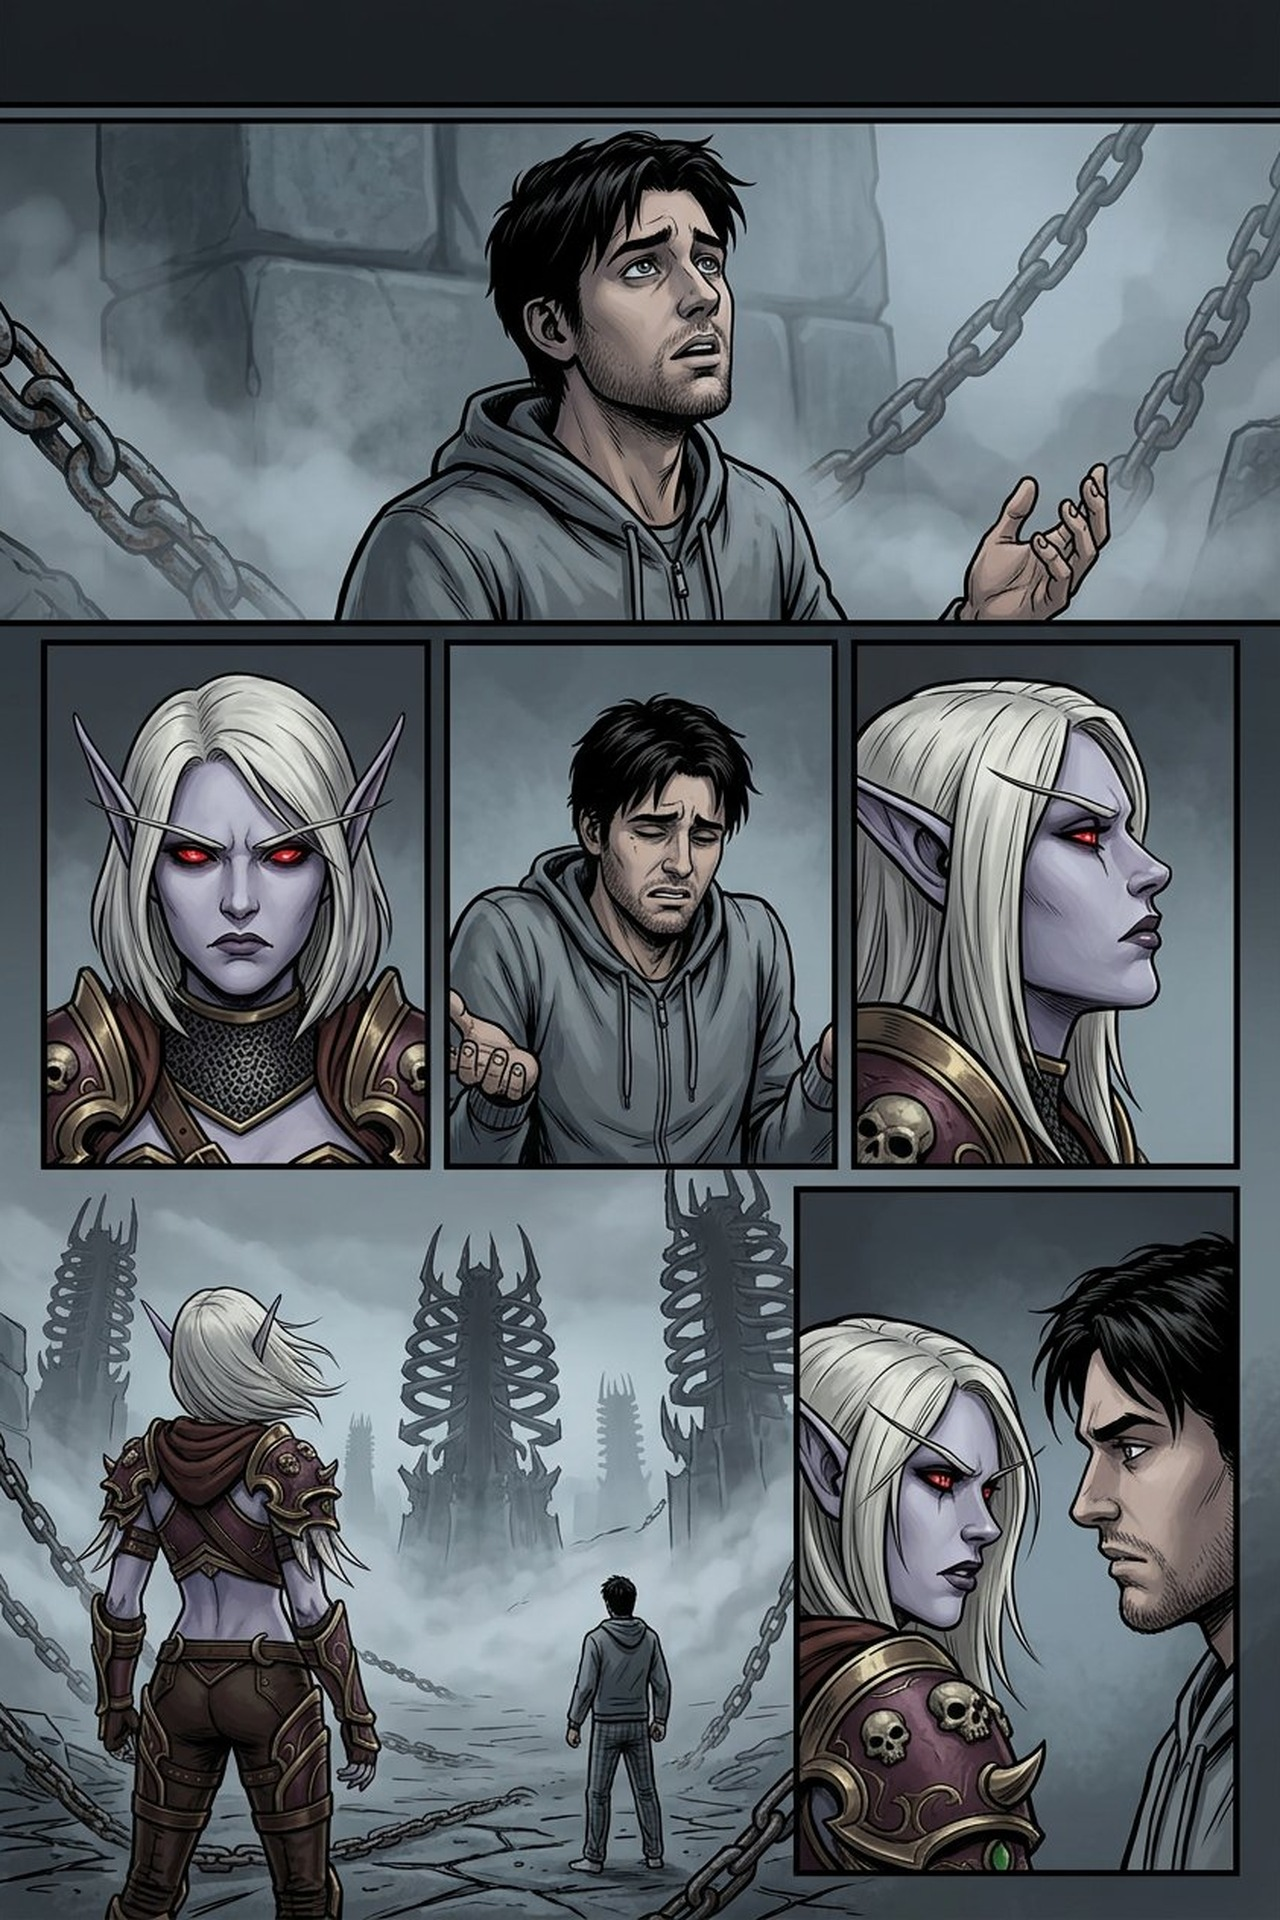
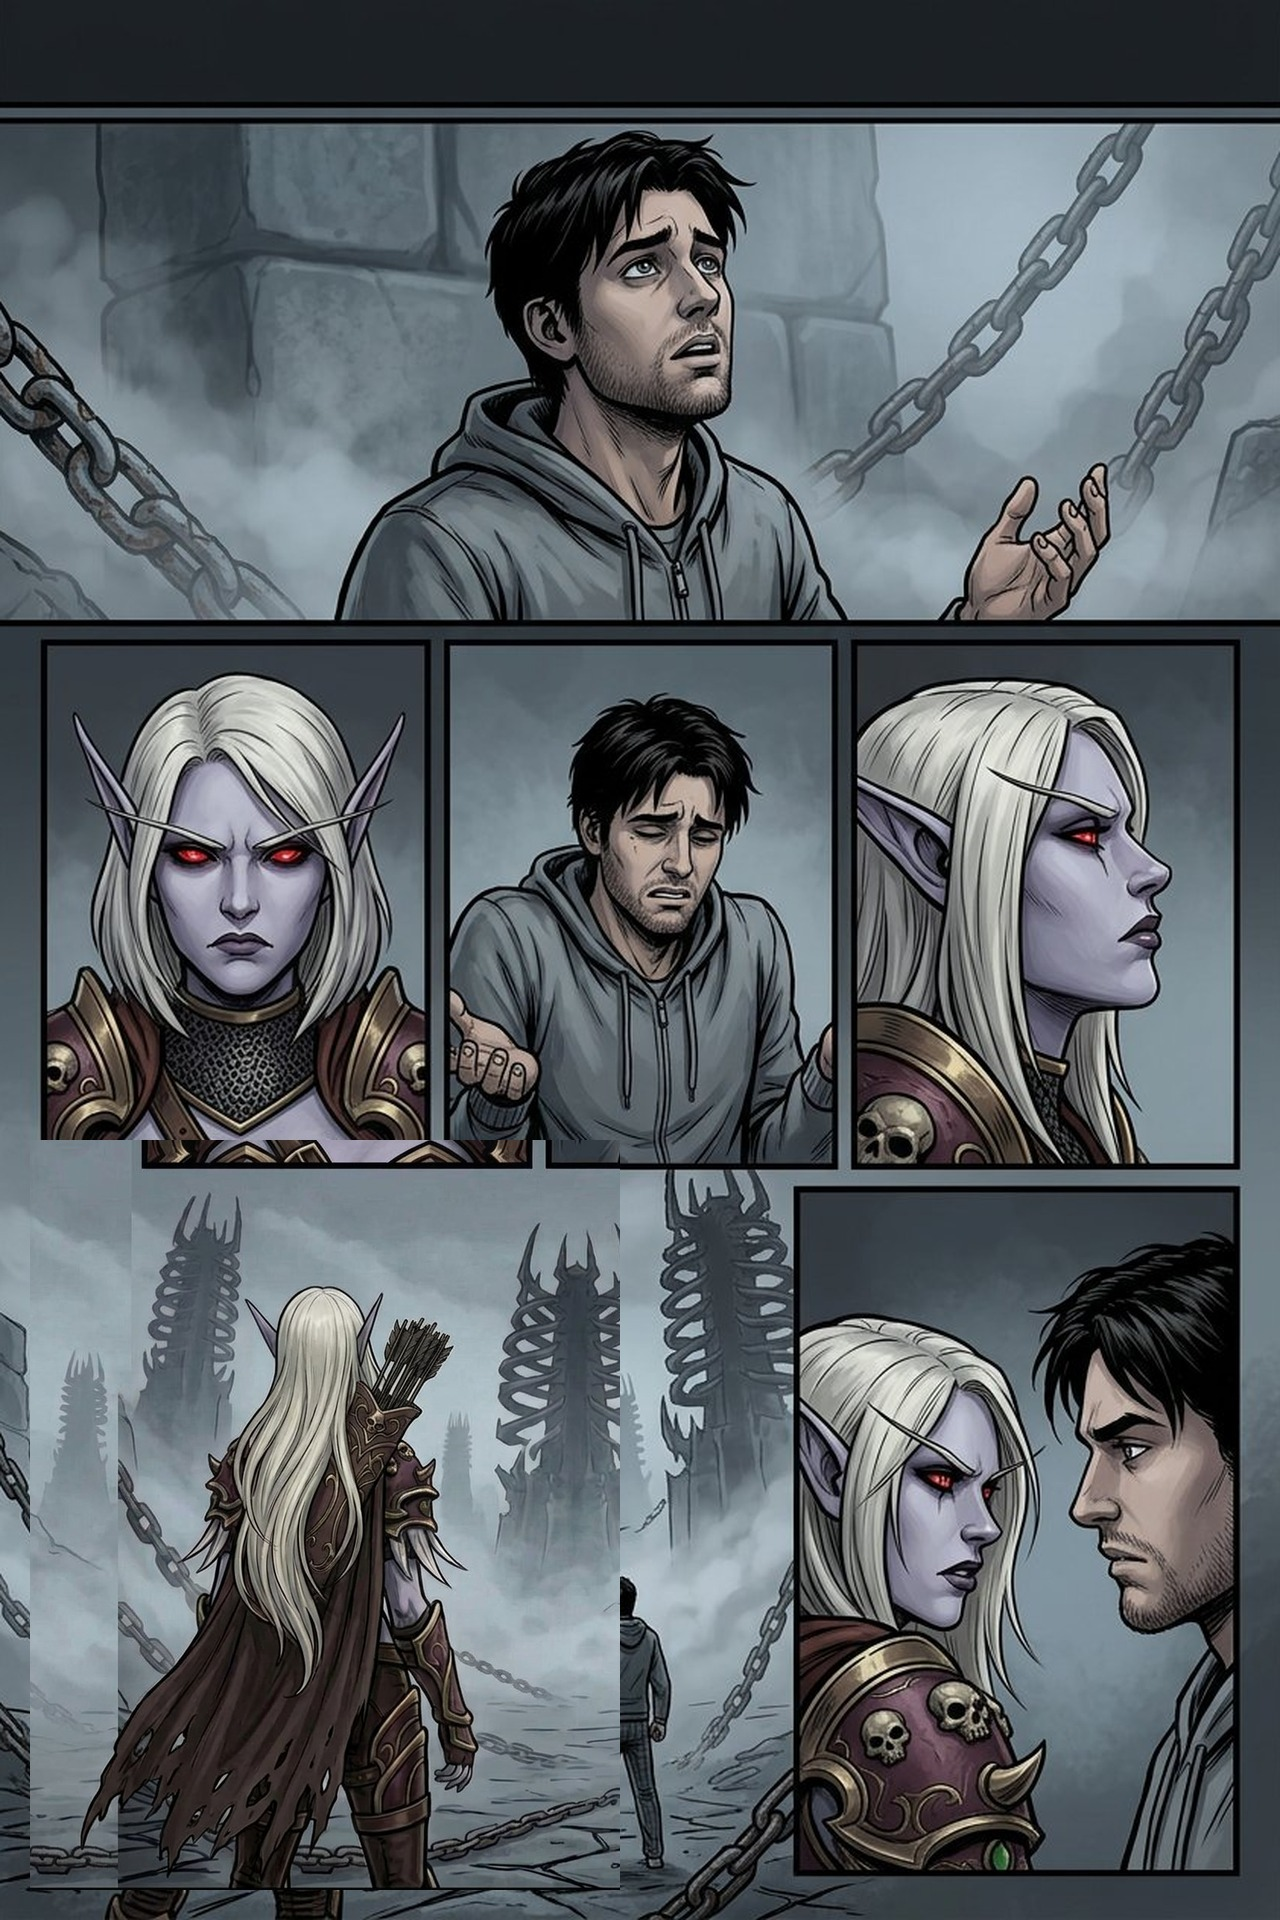
HQ: consistência da Sylvanas (P7/P8 cabelo longo, P10 capuz caído) + balões fora da tatuagem (P6)
- P7-q4 e P8-q0: cabelo branco-longo como na ficha (estava curto); P10-q4: capuz caído no ombro + capa preta (continuidade desde a P7)
- Marcas sob os olhos, roupa e estilo preservados em todas (P5-q1 e P8-q2 intocadas)
- P6-q3: tatuagem virou zona de proteção (3%) + âncoras afastadas — motor tira os 5 balões do antebraço; P6-q4 âncora do 'Por quê?' na boca dela
- Patches aplicados também nos pNN_full | v20260911-14

Changed region(s): [[0.0, 0.5938, 0.5, 1.0]]

diff --git a/livro continua/site/hq/data.js b/livro continua/site/hq/data.js
@@ -123,7 +123,7 @@ const PAGINAS = [
    {r:[30,30,1215,510], rostos:[[325,30,70,70],[460,140,55,60]], zonas:[[200,95,180,330]]},
    {r:[30,560,590,370], rostos:[[85,635,60,70],[350,735,50,60]], zonas:[[60,700,140,220]]},
    {r:[650,560,600,370], rostos:[[785,645,70,90],[1085,635,80,90]]},
-   {r:[30,950,1215,440], rostos:[[100,995,140,190],[500,1085,65,90]], zonas:[[480,1170,150,220],[230,1230,290,160]]},
+   {r:[30,950,1215,440], rostos:[[100,995,140,190],[500,1085,65,90]], zonas:[[480,1170,150,220],[230,1230,290,160],[225,1215,265,185]]},
    {r:[30,1410,1215,480], rostos:[[100,1425,165,230],[355,1415,150,210]], zonas:[[265,1675,100,110],[150,1700,150,160]]}
  ],
  elementos:[
@@ -134,12 +134,12 @@ const PAGINAS = [
    {t:"fala", p:2, de:"nathan", ancora:[820, 740], texto:"Você quer uma prova?"},
    {t:"fala", p:2, de:"sylvanas", ancora:[1120, 725], texto:"Quero."},
    {t:"narra", p:3, texto:"A terceira hesitação foi diferente. As outras foram cautela. Aquela era vergonha. Ele arregaçou a manga direita."},
-   {t:"fala", p:3, de:"sylvanas", ancora:[530, 1175], texto:"Isso está na sua pele."},
+   {t:"fala", p:3, de:"sylvanas", ancora:[560, 1110], texto:"Isso está na sua pele."},
    {t:"fala", p:3, de:"nathan", ancora:[170, 1185], texto:"Está."},
-   {t:"fala", p:3, de:"sylvanas", ancora:[170, 1190], texto:"Permanentemente."},
-   {t:"fala", p:3, de:"nathan", ancora:[530, 1180], texto:"Permanentemente."},
+   {t:"fala", p:3, de:"sylvanas", ancora:[170, 1160], texto:"Permanentemente."},
+   {t:"fala", p:3, de:"nathan", ancora:[560, 1115], texto:"Permanentemente."},
    {t:"narra", p:4, texto:"A mão dela era fria. Não fria de morto — fria de coisa que parou de precisar ser quente."},
-   {t:"fala", p:4, de:"sylvanas", ancora:[430, 1605], texto:"Por quê?"}
+   {t:"fala", p:4, de:"sylvanas", ancora:[455, 1585], texto:"Por quê?"}
  ]},
 /* ==================== PÁGINA 7 — A resposta (quadros provisórios) ==================== */
 /* ==================== PÁGINA 7 — A resposta (arte real) ==================== */

diff --git a/livro continua/site/hq/index.html b/livro continua/site/hq/index.html
@@ -12,7 +12,7 @@
 <link rel="preconnect" href="https://fonts.googleapis.com">
 <link rel="preconnect" href="https://fonts.gstatic.com" crossorigin>
 <link href="https://fonts.googleapis.com/css2?family=Bangers&family=Oswald:wght@400;500;600;700&family=Spectral:ital,wght@1,400;1,500;1,600" rel="stylesheet">
-<link rel="stylesheet" href="hq.css?v=20260911-13">
+<link rel="stylesheet" href="hq.css?v=20260911-14">
 </head>
 <body>
 
@@ -52,9 +52,9 @@
 <div class="dots" id="dots"></div>
 <div class="indicador" id="ind"></div>
 
-<script src="layout.js?v=20260911-13"></script>
-<script src="data.js?v=20260911-13"></script>
-<script src="leitor.js?v=20260911-13"></script>
+<script src="layout.js?v=20260911-14"></script>
+<script src="data.js?v=20260911-14"></script>
+<script src="leitor.js?v=20260911-14"></script>
 <script>
 document.getElementById("capaBt").addEventListener("click",()=>{
   document.getElementById("capa").classList.remove("oculta");

diff --git a/livro continua/site/hq/ler.html b/livro continua/site/hq/ler.html
@@ -12,7 +12,7 @@
 <link rel="preconnect" href="https://fonts.googleapis.com">
 <link rel="preconnect" href="https://fonts.gstatic.com" crossorigin>
 <link href="https://fonts.googleapis.com/css2?family=Bangers&family=Oswald:wght@400;500;600;700&family=Spectral:ital,wght@1,400;1,500;1,600" rel="stylesheet">
-<link rel="stylesheet" href="hq.css?v=20260911-13">
+<link rel="stylesheet" href="hq.css?v=20260911-14">
 </head>
 <body>
 
@@ -52,9 +52,9 @@
 <div class="dots" id="dots"></div>
 <div class="indicador" id="ind"></div>
 
-<script src="layout.js?v=20260911-13"></script>
-<script src="data.js?v=20260911-13"></script>
-<script src="leitor.js?v=20260911-13"></script>
+<script src="layout.js?v=20260911-14"></script>
+<script src="data.js?v=20260911-14"></script>
+<script src="leitor.js?v=20260911-14"></script>
 <script>
 document.getElementById("capaBt").addEventListener("click",()=>{
   document.getElementById("capa").classList.remove("oculta");

diff --git a/livro continua/site/hq/leitor.js b/livro continua/site/hq/leitor.js
@@ -6,7 +6,7 @@
    Rabichos são desenhados sobre os balões REAIS medidos no DOM.
    ============================================================ */
 const PW = 1280, PH = 1920;
-const VER = "20260911-13";
+const VER = "20260911-14";
 const NS = "http://www.w3.org/2000/svg";
 const COM_RABICHO = ["fala","grito","rouca","sussurro"];
 
